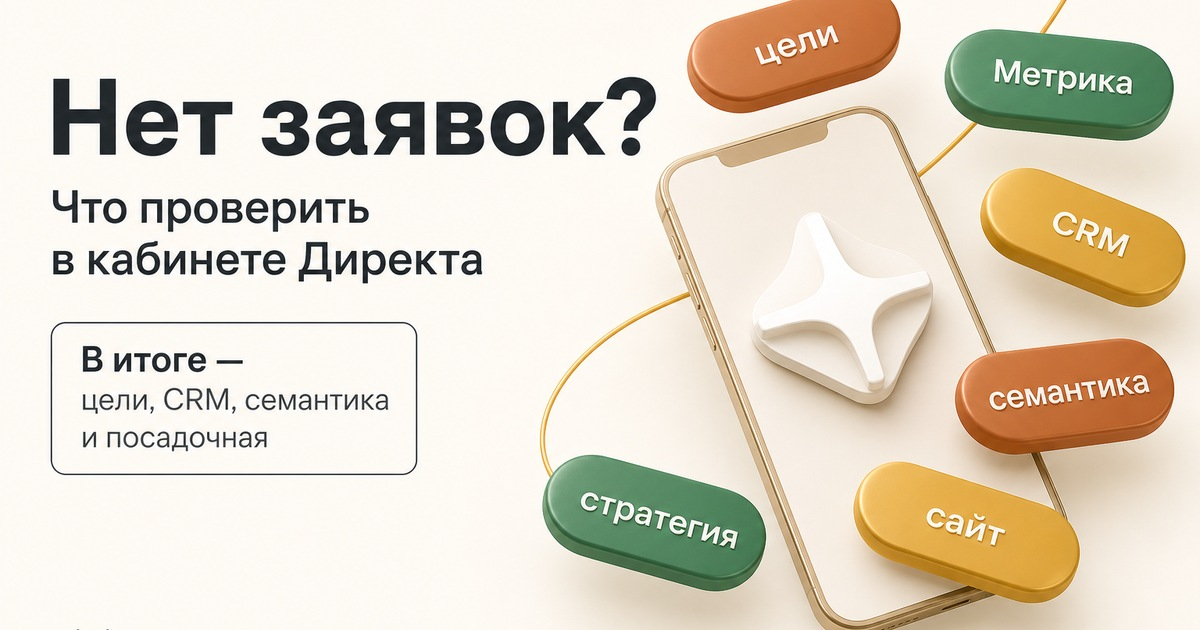
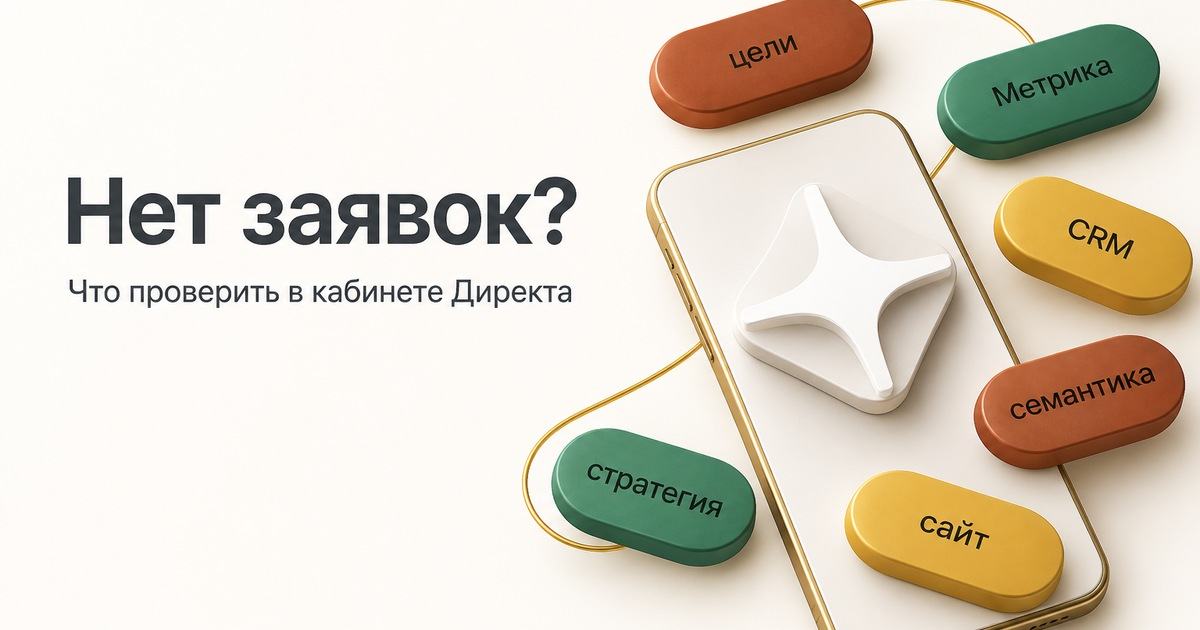
covers: drop 'В итоге' card — cleaner no-leads-direct

diff --git a/автоматизация-контента/automation/generate_cover.py b/автоматизация-контента/automation/generate_cover.py
@@ -175,8 +175,8 @@ def openrouter_prompt(headline: str, subline: str, *, vk: bool = False) -> str:
         f"{frame} "
         "Минималистичный маркетинговый баннер в тёплой цветовой гамме с объёмными 3D-элементами для Дзена. "
         f"Слева — крупный выразительный заголовок «{title}», ниже — дополнительный текст, "
-        "оформленный в чистом современном стиле, затем выделенная карточка с тонкой обводкой "
-        "и блоком «В итоге». В нижней части — подпись «mkekspert.ru». "
+        "оформленный в чистом современном стиле. "
+        "Без карточки «В итоге», без боксов и стрелок. Внизу слева — только подпись «mkekspert.ru». "
         "Фон — светлый оттенок слоновой кости. "
         "Справа — смартфон или мобильное устройство, расположенное под небольшим диагональным углом, "
         "с белым логотипом Дзена на экране. "
@@ -421,27 +421,6 @@ def overlay_brand_text(img: Image.Image, headline: str, subline: str) -> Image.I
                 td.text((pad + 4, ty + 4), ln, fill=(*hex_rgb(BG_WARM), 180), font=font_title)
                 td.text((pad, ty), ln, fill=(*hex_rgb(TEXT_GRAPHITE), 255), font=font_title)
                 ty += step
-
-            if subline:
-                card_y = ty + int(h * 0.03)
-                card_h = int(h * 0.16)
-                card_w = int(w * (0.54 if not is_portrait else 0.88))
-                card_x = pad
-                td.rounded_rectangle(
-                    [card_x, card_y, card_x + card_w, card_y + card_h],
-                    radius=18,
-                    fill=(*hex_rgb(BG_IVORY), 220),
-                    outline=(*hex_rgb(ACCENT_TERRA), 200),
-                    width=2,
-                )
-                font_card_h = load_font(max(18, int(h * 0.028)), bold=True)
-                font_card_b = load_font(max(14, int(h * 0.022)))
-                td.text((card_x + 20, card_y + 12), "В итоге —", fill=(*hex_rgb(ACCENT_TERRA), 255), font=font_card_h)
-                body_lines = textwrap.wrap(subline, width=38 if not is_portrait else 28)[:2]
-                by = card_y + 12 + int(h * 0.032)
-                for bl in body_lines:
-                    td.text((card_x + 20, by), bl, fill=(*hex_rgb(TEXT_DARK_BEI), 230), font=font_card_b)
-                    by += int(h * 0.028)
 
             font_br = load_font(max(20, int(w * 0.022)), bold=True)
             br = "mkekspert.ru"
